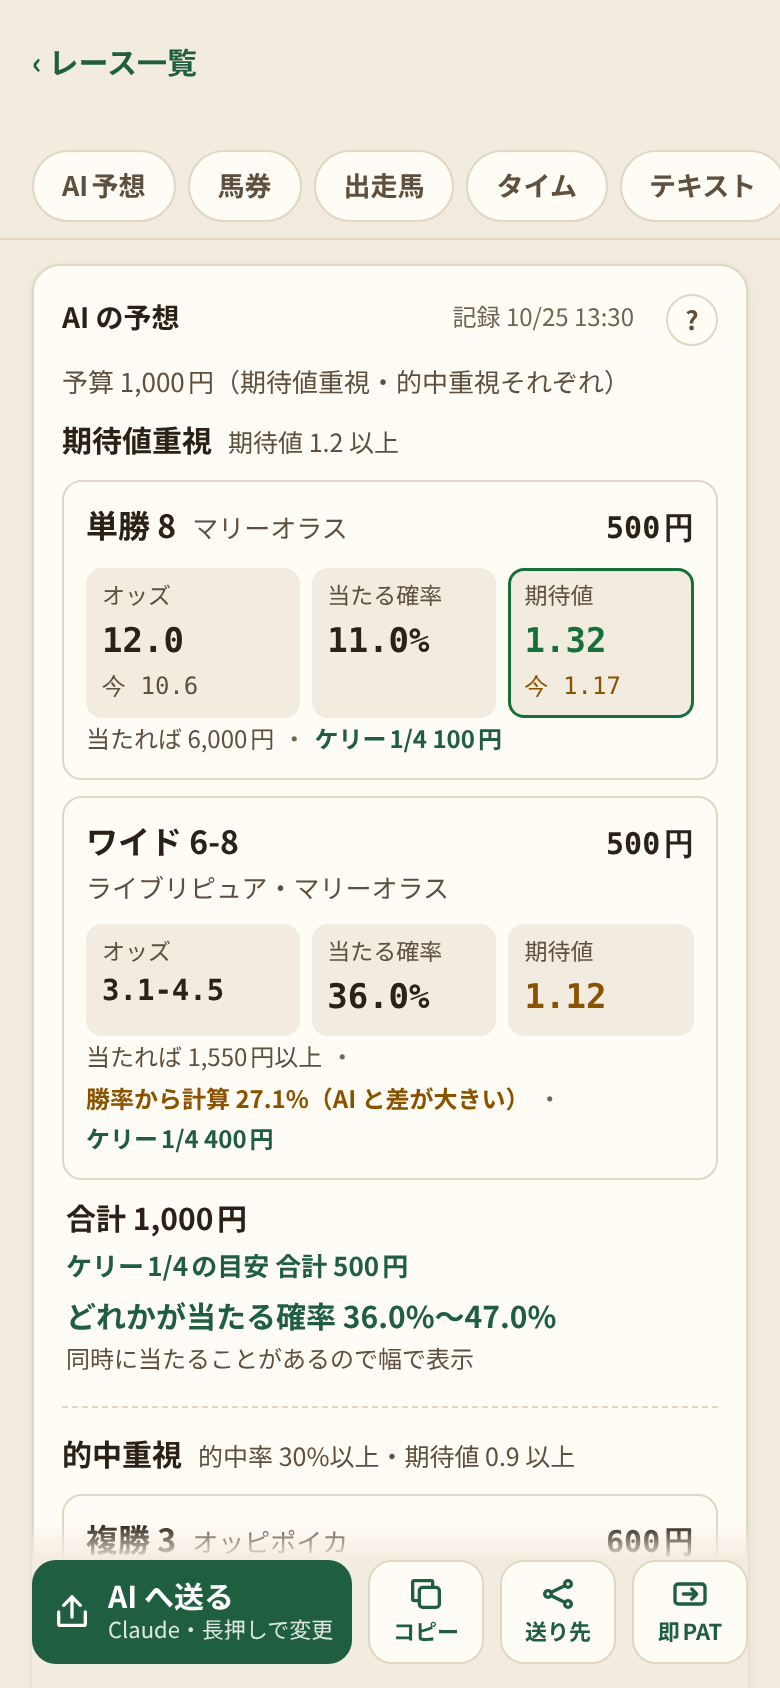
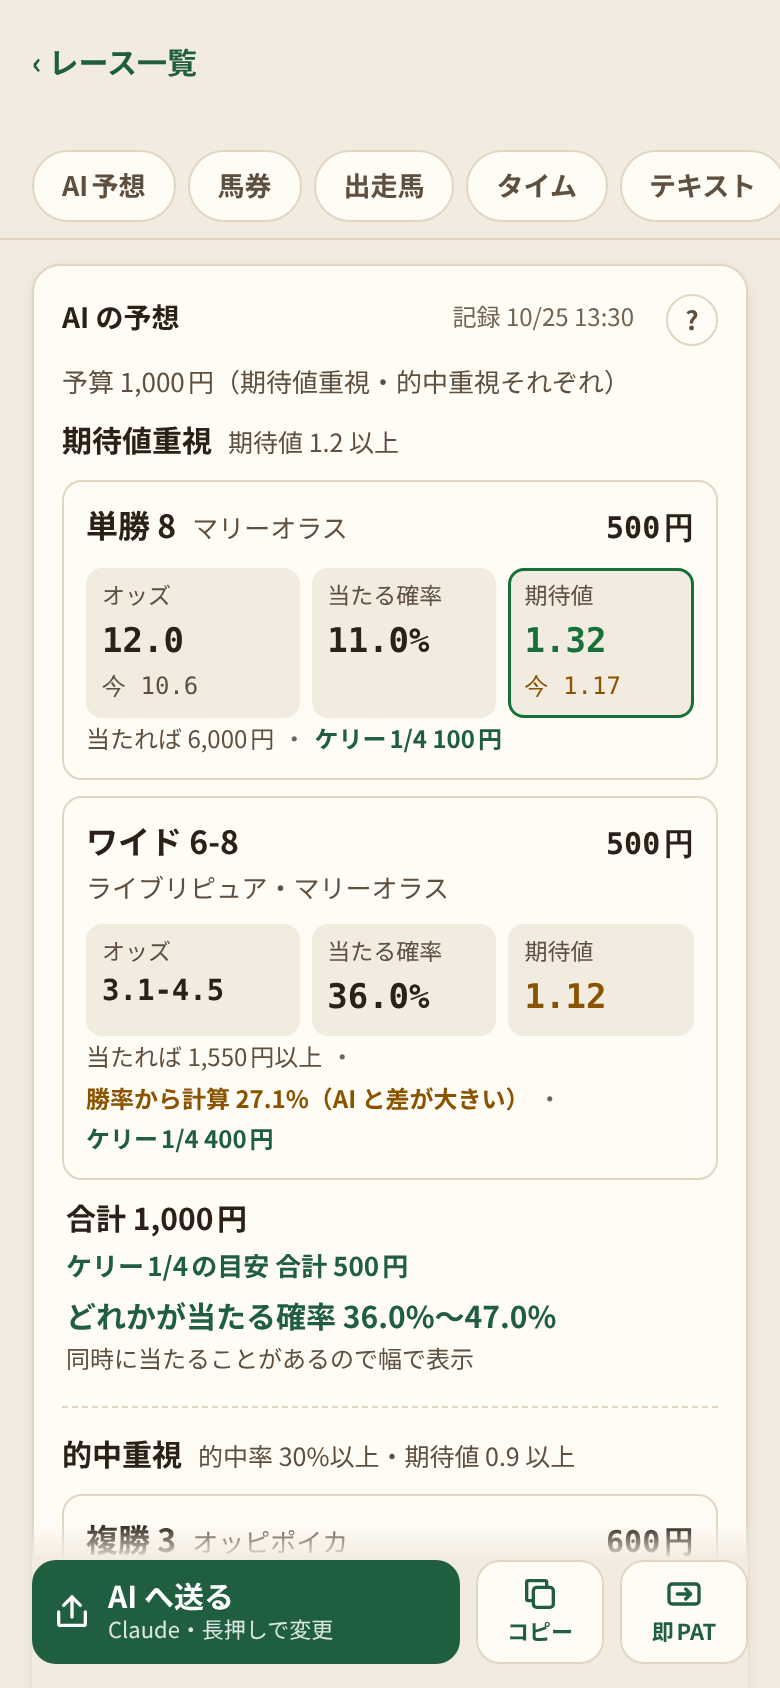
使わない・重複した機能を外す：送り先ボタン・見出しの表示切り替え・欠損なしのカード・古いコード。計算値は差が大きいときだけ、精度のカードは下へ

Changed region(s): [[0.4308, 0.9242, 0.9231, 0.9858]]

diff --git a/android/app/src/main/assets/js/ui-records.js b/android/app/src/main/assets/js/ui-records.js
@@ -328,7 +328,7 @@ function aiCard(venue, race) {
   }
   const ai = rec["AI"], pred = ai["予想"] || {};
   const aiHelp = ["買い目ごとに、オッズ（複勝・ワイドは幅の下限）× AI の推定した当たる確率 ＝ 期待値 を出します。期待値が条件の下限以上なら緑、下回れば黄。記録のあとにオッズを取り直していれば「今」の値も並べます（締切前に期待値が下限を割っていないかの確認に）",
-    "「勝率から計算」は、AI の推定勝率から Harville 法で計算した複勝・ワイド・3連複の的中率です。AI の見積もりと大きく違うときは黄色で知らせます",
+    "「勝率から計算」は、AI の推定勝率から Harville 法で計算した複勝・ワイド・3連複の的中率です。AI の見積もりと大きく違うときだけ黄色で出します（AI の見積もりが自分の推定勝率と食い違っている印）",
     "「ケリー」は、推定的中率とオッズから出した最適な賭け金の割合 × 設定の割合（既定 1/4）× 資金 を100円単位にした目安です。1点ずつの計算なので、何点も買うときの合計は多めに出ます。割合と資金は「AI への条件」の画面で変えられます",
     "「どれかが当たる確率」は AI の見積もりです。複勝・ワイドや券種の違う買い目は同時に当たることがあるので、幅（いちばん高い確率〜足した確率）で出します"];
   { const t = String(ai["記録時刻"] || ""); h.append(el("span", "aside", t.length >= 16 ? `記録 ${+t.slice(5, 7)}/${+t.slice(8, 10)} ${t.slice(11, 16)}` : "")); }
@@ -422,9 +422,9 @@ function aiCard(venue, race) {
       const extra = [];
       if (recOk) extra.push(el("span", null, `当たれば ${yen(Math.floor(b["金額"] / 100) * Math.round(atRec.low * 100))}${wide ? "以上" : ""}`));
       const cp = calcProbOf(b);
-      if (cp != null && p != null) {
-        const far = Math.abs(p - cp) > Math.max(0.03, cp * 0.3);
-        extra.push(el("span", far ? "calc-far" : null, `勝率から計算 ${(cp * 100).toFixed(1)}%${far ? "（AI と差が大きい）" : ""}`));
+      // AI の推定勝率から計算した的中率は、AI の見積もりと大きく違うときだけ出す（同じくらいなら読む意味がないので）
+      if (cp != null && p != null && Math.abs(p - cp) > Math.max(0.03, cp * 0.3)) {
+        extra.push(el("span", "calc-far", `勝率から計算 ${(cp * 100).toFixed(1)}%（AI と差が大きい）`));
       }
       const ko = nowDiff ? now.low : recOk ? atRec.low : null;
       const ka = rec["結果"] ? null : kellyAmount(p, ko);
@@ -751,7 +751,7 @@ function openOwnSheet(venue, race) {
 }
 
 // ===== 記録と答え合わせの画面 =====
-function showRecords() { closeMenu(); state.back = null; showScreen("records"); renderRecords(); }
+function showRecords() { state.back = null; showScreen("records"); renderRecords(); }
 // ===== 回収率の推移と内訳 =====
 // 記録を発走の順（日付・発走時刻・競馬場・レース番号）に並べ、買った・買い目のあるレースだけで収支を足し上げる。
 // 期待値重視・的中重視の数え方は computeSummary（PC版の _bet_summary）と同じ
@@ -946,16 +946,19 @@ function renderRecords() {
     c2.append(el("p", "note", `AI − 市場 = ${br.diff >= 0 ? "+" : ""}${br.diff.toFixed(4)}（95%区間 ${br.ci[0] >= 0 ? "+" : ""}${br.ci[0].toFixed(4)}〜${br.ci[1] >= 0 ? "+" : ""}${br.ci[1].toFixed(4)}）`));
     if (br.n < 30) c2.append(el("p", "verdict", "まだ判断できません（30レース未満）"));
     else c2.append(el("p", "verdict", br.ci[1] < 0 ? "✓ AI の推定勝率は、市場（単勝オッズ）より当たっています" : br.ci[0] > 0 ? "! AI の推定勝率は、市場（単勝オッズ）より外れています" : "AI と市場の差は、このレース数では区別できません"));
-    const tb = el("table", "rec-table"); tb.style.marginTop = "10px";
+    // 推定○%の馬が実際に何%勝ったか（レース数が少ないうちは意味が薄いので畳んでおく）
+    const det = el("details", "breakdown"); keepOpen(det, "calib");
+    det.append(el("summary", null, "キャリブレーション（推定○%の馬が実際に何%勝ったか）"));
+    const tb = el("table", "rec-table"); tb.style.marginTop = "6px";
     const hr = el("tr"); for (const [t, cls] of [["推定勝率"], ["件数", "r"], ["AI推定", "r"], ["実際", "r"]]) hr.append(el("th", cls || null, t)); tb.append(hr);
     for (const [lo, hi, cnt, mp, act] of sm.calib_win.ai) {
       const tr = el("tr"); tr.append(el("td", null, `${lo}〜${hi}%`), el("td", "r", cnt), el("td", "r", `${mp.toFixed(1)}%`), el("td", "r", `${act.toFixed(1)}%`)); tb.append(tr);
     }
-    c2.append(tb);
-    c2.append(el("p", "note", `推定○%の馬が実際に何%勝ったか。推定複勝率のブライアスコア ${sm.calib_place.brier.toFixed(4)}`));
+    det.append(tb);
+    det.append(el("p", "note", `推定複勝率のブライアスコア ${sm.calib_place.brier.toFixed(4)}`));
+    c2.append(det);
   }
   if (sm.n_races && sm.n_races < 30) c2.append(el("p", "note", `※レース数が ${sm.n_races}件と少ないため、区間が広く結論は出せません。50レース以上たまってから判断してください`));
-  body.append(c2);
 
   // 一覧（新しい順）
   const list = el("div", "rec-list"); list.style.marginTop = "12px";
@@ -1012,4 +1015,6 @@ function renderRecords() {
   act.append(im);
   act.append(el("p", "note", "書き出したファイルは、機種変更や入れ直しのあとに「読み込む」で戻せます。PC へ移して run.bat import <ファイル> で取り込むと verify.bat でも集計できます"));
   body.append(act);
+  // 推定勝率の精度（判断は CLV と回収率で足りるので、いちばん下に置く）
+  body.append(c2);
 }

diff --git a/android/app/src/main/assets/js/ui-result.js b/android/app/src/main/assets/js/ui-result.js
@@ -4,7 +4,6 @@
 // ===== 結果 =====
 const ICON_SEND = '<svg viewBox="0 0 24 24" fill="none" stroke="currentColor" stroke-width="2" stroke-linecap="round" stroke-linejoin="round"><path d="M4 12v7a1 1 0 0 0 1 1h14a1 1 0 0 0 1-1v-7"/><path d="M12 3v12"/><path d="m7 8 5-5 5 5"/></svg>';
 const ICON_COPY = '<svg viewBox="0 0 24 24" fill="none" stroke="currentColor" stroke-width="2" stroke-linejoin="round"><rect x="8" y="8" width="12" height="12" rx="2"/><path d="M16 8V5a1 1 0 0 0-1-1H5a1 1 0 0 0-1 1v10a1 1 0 0 0 1 1h3"/></svg>';
-const ICON_PICK = '<svg viewBox="0 0 24 24" fill="none" stroke="currentColor" stroke-width="2" stroke-linecap="round"><circle cx="6" cy="12" r="2"/><circle cx="18" cy="6" r="2"/><circle cx="18" cy="18" r="2"/><path d="m8 11 8-4M8 13l8 4"/></svg>';
 
 function shareLabel() { try { return Native.shareTarget() || ""; } catch (e) { return ""; } }
 
@@ -65,7 +64,8 @@ function renderResult() {
   const cond = el("button", "cond-line");
   cond.append(el("span", null, "AI への条件"), el("b", null, betSummary(betSettings()) + (promptTemplate() ? "・指示文は書き換え中" : "")), el("span", "go", "変更 ›"));
   cond.onclick = () => { state.back = "result"; showSettings(); };
-  infoBox.append(cond);
+  // AI の回答を記録したあとは、条件が「AI の予想」欄に出るので、記録する前（送る前の確認）だけ出す
+  if (!(readRecords()[cacheKey(state.date, venue, race.no)] || {})["AI"]) infoBox.append(cond);
 
   // オッズの動き（取り直したとき）
   if (res.info.predicted) {
@@ -107,8 +107,6 @@ function renderResult() {
     const ul = el("ul"); for (const x of info.warnings) ul.append(el("li", null, x)); w.append(ul);
     w.append(el("p", "note", "欠損は AI への指示で「推測で補わず市場評価に寄せる」ように伝えています"));
     infoBox.append(w);
-  } else {
-    const ok = el("div", "card ok-card"); ok.append(el("h3", null, "✓ 欠損なし")); infoBox.append(ok);
   }
 
   // 各馬
@@ -197,9 +195,7 @@ function renderResult() {
   onPress(send, () => { markSent(venue, race); Native.share(textFor(res), false); }, () => { markSent(venue, race); Native.share(textFor(res), true); });
   const copy = el("button", "btn secondary sub"); copy.innerHTML = ICON_COPY; copy.append(document.createTextNode("コピー"));
   copy.onclick = () => { markSent(venue, race); Native.copy(textFor(res)); toast("コピーしました"); };
-  const pick = el("button", "btn secondary sub"); pick.innerHTML = ICON_PICK; pick.append(document.createTextNode("送り先"));
-  pick.onclick = () => { markSent(venue, race); Native.share(textFor(res), true); };
-  bar.append(send, copy, pick);
+  bar.append(send, copy);
   // 投票の入口はいつも出す（発売カレンダーが手元にない・競馬場名が合わないときに消えないように）
   {
     const pat = el("button", "btn secondary sub");
@@ -207,7 +203,6 @@ function renderResult() {
     pat.append(document.createTextNode("即PAT"));
     pat.setAttribute("aria-label", "即PAT（地方競馬ネット投票）を開く");
     pat.onclick = openPat;
-    bar.classList.add("with-pat");
     bar.append(pat);
   }
   body.append(bar);
@@ -501,7 +496,6 @@ function renderUpdateUi() {
 function fmtAt(iso) { const d = new Date(iso); return isNaN(d) ? "" : `${d.getMonth() + 1}/${d.getDate()} ${String(d.getHours()).padStart(2, "0")}:${String(d.getMinutes()).padStart(2, "0")}`; }
 
 function showAbout() {
-  closeMenu();
   showScreen("about");
   renderAbout();
   // 開いたら確認する（直前に確認していれば省く）
@@ -578,7 +572,7 @@ function renderAbout() {
     seg.append(b);
   }
   tc.append(seg);
-  tc.append(el("p", "note", "「自動」は端末のダークモードに合わせます。右上の丸いボタンでも切り替えられます"));
+  tc.append(el("p", "note", "「自動」は端末のダークモードに合わせます"));
   body.append(tc);
 
   // このビルド

diff --git a/tests/ui_smoke.js b/tests/ui_smoke.js
@@ -55,9 +55,10 @@ const check = (scheme, name, ok, detail) => { if (!ok) failures.push(`[${scheme}
       state.date = "20261025"; renderDate();
       App.onPatCalendar("202610", cal);
       App.onRaceList([{ name: "盛岡", races }, { name: "高知", races }]);
-      return { races: document.querySelectorAll("#raceArea .race").length, ext: document.querySelectorAll(".ext-row button").length, fold: !!document.querySelector(".past-fold") };
+      return { theme: !!document.getElementById("themeBtn"), races: document.querySelectorAll("#raceArea .race").length, ext: document.querySelectorAll(".ext-row button").length, fold: !!document.querySelector(".past-fold") };
     }, { cal, races });
     check(scheme, "一覧にレースが並ぶ", home.races > 0, JSON.stringify(home));
+    check(scheme, "見出しに表示切り替えのボタンを出さない（設定の「画面の色」に一本化）", !home.theme);
     check(scheme, "レース映像・即PAT のボタン", home.ext === 2);
     check(scheme, "発走済みのレースを畳む", home.fold);
     check(scheme, "一覧が横にはみ出さない", (await overflow()) <= 0);
@@ -79,13 +80,15 @@ const check = (scheme, name, ok, detail) => { if (!ok) failures.push(`[${scheme}
       return { steps, before, offer, recorded: !!(rec && rec["AI"]),
         nav: [...document.querySelectorAll(".sec-nav button")].map((b) => b.textContent),
         kpi: document.querySelectorAll("#sec-ai .bet-kpi").length,
+        cond: !!document.querySelector(".cond-line"),
         text: document.querySelector("#sec-text summary") ? document.querySelector("#sec-text summary").textContent : "" };
     }, { r1: buildRace("2026-10-25 13:28"), ai });
-    check(scheme, "結果画面の下のボタン4つ", res.before.bar === 4, JSON.stringify(res.before));
+    check(scheme, "結果画面の下のボタン3つ（送る・コピー・即PAT）", res.before.bar === 3, JSON.stringify(res.before));
     check(scheme, "AI の回答のコピーに気づいて記録を勧める", res.offer);
     check(scheme, "勧めから記録できる", res.recorded);
     check(scheme, "記録後は AI の予想が見出しの先頭（結果の次）", res.nav[0] === "AI予想", res.nav.join(","));
     check(scheme, "買い目が3列で出る", res.kpi > 0);
+    check(scheme, "記録後は「AI への条件」の行を出さない", !res.cond);
     check(scheme, "送るテキスト", /送るテキストを見る/.test(res.text));
     check(scheme, "結果画面が横にはみ出さない", (await overflow()) <= 0);
 

diff --git a/android/app/src/main/assets/scraper.js b/android/app/src/main/assets/scraper.js
@@ -33,7 +33,6 @@
   const EV_MIN = 1.2;
   // mode: "ev"=期待値重視 / "hit"=的中重視 / "both"=両方。hit_min（%）・hit_ev_min は的中重視の条件（PC版の BET_MODE・HIT_MIN・HIT_EV_MIN）
   const DEFAULT_SETTINGS = { budget: 1000, max_bets: 3, ev_min: EV_MIN, mode: "both", hit_min: 30, hit_ev_min: 0.9 };
-  const BET_MODES = { ev: "期待値重視", hit: "的中重視", both: "両方" };
 
   // AI への指示文（PC版の PROMPT_TEXT と同じ文面にそろえる）
   const PROMPT_TEXT = `
@@ -190,18 +189,6 @@
     return venues;
   }
 
-  // 発走前で最も早いレースの位置。全レース終了なら最終レース
-  function nextRaceIndex(races, raceDate) {
-    const now = jstNow();
-    const z = (n) => String(n).padStart(2, "0");
-    const today = `${now.getFullYear()}${z(now.getMonth() + 1)}${z(now.getDate())}`;
-    if (raceDate !== today) return 0;
-    for (let i = 0; i < races.length; i++) {
-      const m = races[i].time.match(/^(\d{1,2}):(\d{2})$/);
-      if (m && (+m[1] > now.getHours() || (+m[1] === now.getHours() && +m[2] > now.getMinutes()))) return i;
-    }
-    return races.length - 1;
-  }
 
   // ========== 出馬表 ==========
 
@@ -1838,12 +1825,12 @@
 
   global.KS = {
     buildWithInfo,
-    NETKEIBA, KEIBA_CODES, CODE_TO_NAME, KEIBAGO_CODES, EV_MIN, DEFAULT_SETTINGS, BET_MODES, MODE_TEXT, PROMPT_TEXT, fmtEv, fmtPct, promptText, withSettings,
+    KEIBA_CODES, CODE_TO_NAME, KEIBAGO_CODES, EV_MIN, DEFAULT_SETTINGS, MODE_TEXT, PROMPT_TEXT, fmtEv, fmtPct, promptText, withSettings,
     parsePatCalendar, parsePatRange,
     oddsNotes, diffRaces, formatDiff, pyFixed, speedTable, formatSpeed, normJockey,
     parseAiBlock, raceIdOf, newRecord, resultReady, parseResult, parseCorner, harville, dayTrendLines, resultFinished, settleBets, horseRows, computeSummary, comboKey, BET_SPECS,
     gt, dispWidth, pad,
-    parseRaceList, nextRaceIndex,
+    parseRaceList,
     parseShutuba, parseRaceInfo, parseKyakuType,
     keibagoUrl, parseKeibago,
     parseTanFuku, fmtOdds, tanfukuReady, extractCombos, topCombos, axisValues, parseNinkiSanren, comboSignature, comboChanged, selectAxis,

diff --git a/android/app/src/main/assets/ui.css b/android/app/src/main/assets/ui.css
@@ -161,8 +161,6 @@ details.log pre { margin: 6px 0 0; font-family: var(--f-num); font-size: 11.5px;
 .warn-card { background: var(--warn-weak); border-color: transparent; box-shadow: none; }
 .warn-card h3 { color: var(--warn); }
 .warn-card ul { margin: 0; padding-left: 1.2em; font-size: 13px; color: var(--ink); }
-.ok-card { background: var(--ok-weak); border-color: transparent; box-shadow: none; }
-.ok-card h3 { color: var(--ok); margin: 0; }
 
 .horses { display: grid; gap: 2px; }
 .horse { display: grid; grid-template-columns: 28px 1fr 52px 48px 40px; align-items: center; gap: 8px; padding: 6px 0; border-top: 1px solid var(--grid); font-size: 14px; }
@@ -293,7 +291,6 @@ table.past td.place { color: var(--accent); font-weight: 700; }
 .btn.live-btn { border-color: var(--accent); }
 .live-btn.wide { width: 100%; margin: 8px 0 12px; min-height: 52px; font-size: 16px; }
 .live-btn small { font-size: 12px; font-weight: 400; color: var(--ink2); }
-.send-bar.with-pat { grid-template-columns: 1fr 58px 58px 58px; }
 .pat-line b { color: var(--accent); }
 .pat-line.none { color: var(--muted); }
 .chip.pat { border-color: var(--accent); color: var(--accent); font-weight: 700; }
@@ -406,7 +403,6 @@ button.pref-row:active { background: var(--grid); }
 .switch::after { content: ""; position: absolute; top: 3px; left: 3px; width: 22px; height: 22px; border-radius: 50%; background: var(--surface); transition: left .15s; box-shadow: var(--shadow); }
 .switch.on { background: var(--accent); }
 .switch.on::after { left: 21px; }
-.scrim { position: fixed; inset: 0; z-index: 25; }
 .ai-cond { font-size: 13px; color: var(--ink2); margin: 2px 0 8px; }
 .ai-skip { font-weight: 700; margin: 6px 0; }
 .bet-list { display: grid; gap: 8px; }

diff --git a/android/app/src/main/assets/js/ui-settings.js b/android/app/src/main/assets/js/ui-settings.js
@@ -42,7 +42,6 @@ function textFor(res) {
 }
 
 function showSettings() {
-  closeMenu();
   showScreen("settings");
   renderSettings();
 }
@@ -296,7 +295,7 @@ $("sheetScrim").onclick = closeSheet;
 function openFromNotification(p) {
   if (!p || !p.r) return;
   const r = p.r;
-  closeSheet(); closeMenu();
+  closeSheet();
   if (state.screen === "collect" && state.job) { Native.cancel(); state.job = null; }
   state.parent = null; state.fromRecords = false; state.back = null;
   // 答え合わせの通知：予想の記録を開く（取れていなければその場で取りに行く）
@@ -347,10 +346,7 @@ function toast(msg) {
   clearTimeout(toast.h); toast.h = setTimeout(() => t.classList.remove("show"), 1600);
 }
 
-// ===== メニュー =====
-// 以前のメニューの名残（呼ぶところが残っていても動くように）
-function closeMenu() { $("scrim").classList.add("hidden"); }
-$("scrim").onclick = closeMenu;
+// ===== 見出しのボタン =====
 $("prefsBtn").onclick = showPrefs;
 $("recordsTop").onclick = () => { state.parent = null; showRecords(); };
 // 収集用の WebView が開いているページを画面の下半分に出す（読み取れないときの確認用）
@@ -367,10 +363,6 @@ function renderPreviewBtn() {
 }
 $("previewClose").onclick = () => setPreview(false);
 $("updateBar").onclick = showAbout;
-$("themeBtn").onclick = () => {
-  const next = THEMES[(THEMES.indexOf(themePref) + 1) % THEMES.length];
-  setThemePref(next); toast(`表示：${THEME_LABEL[next]}`);
-};
 
 // ===== 設定の画面（トップの歯車から） =====
 function showPrefs() { state.parent = null; state.back = null; showScreen("prefs"); renderPrefs(); }

diff --git a/android/app/src/main/assets/ui.html b/android/app/src/main/assets/ui.html
@@ -13,7 +13,6 @@
   <header class="appbar">
     <div class="appbar-row">
       <h1>地方競馬データ収集</h1>
-      <button class="icon-btn labeled" id="themeBtn" aria-label="表示の切り替え"></button>
       <button class="icon-btn labeled has-dot" id="recordsTop" aria-label="予想の記録と答え合わせ">
         <svg viewBox="0 0 24 24" fill="none" stroke="currentColor" stroke-width="2" stroke-linecap="round" stroke-linejoin="round"><rect x="5" y="4" width="14" height="17" rx="2"/><path d="M9 4h6v3H9zM8.5 12l2 2 4-4M8.5 17.5h7"/></svg>
         <span class="lb">記録</span>
@@ -52,7 +51,6 @@
   <main id="detailBody"></main>
 </div>
 
-<div class="scrim hidden" id="scrim"></div>
 <div class="sheet-scrim hidden" id="sheetScrim"></div>
 <div class="sheet hidden" id="sheet" role="dialog" aria-modal="true"></div>
 <div class="preview-bar hidden" id="previewBar"><span>下半分にサイトのプレビューを表示中</span><button id="previewClose">閉じる</button></div>
